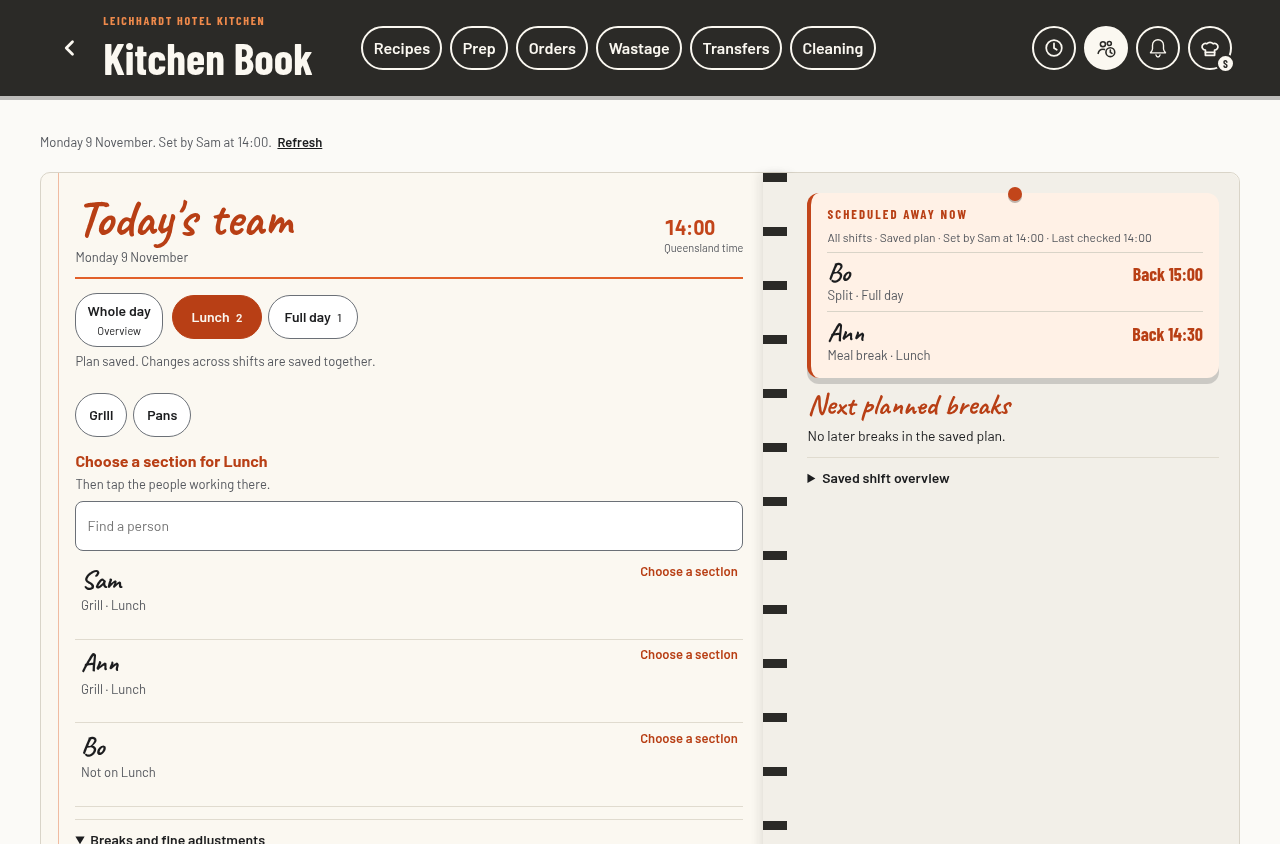
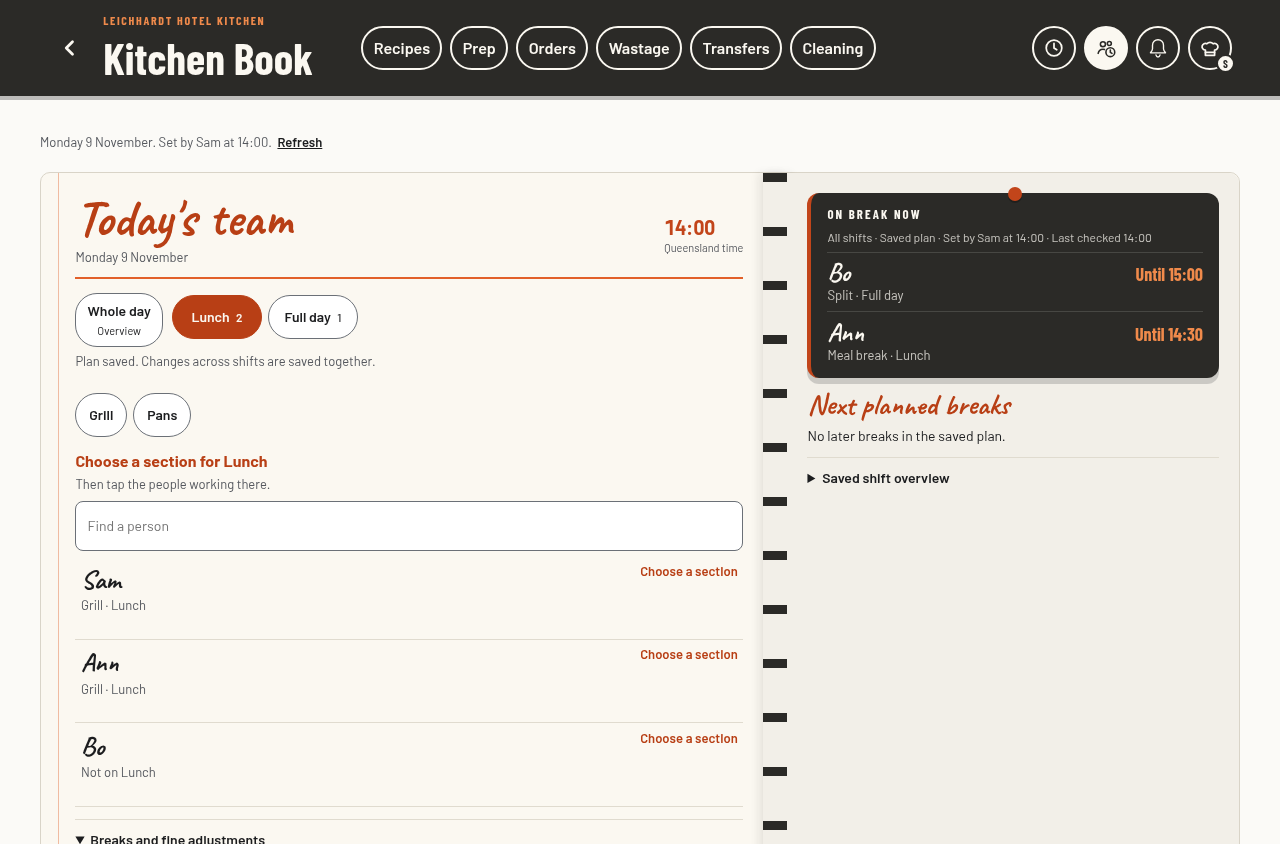
Use a charcoal break board and show Lunch tabs before Dinner

Changed region(s): [[0.625, 0.2156, 0.9688, 0.4621]]

diff --git a/tests/team-shift-tabs.test.js b/tests/team-shift-tabs.test.js
@@ -1,0 +1,61 @@
+// Shift-tab display order must not change the configured defaults or the shared day draft.
+const L = require('./lib');
+const { R, ok } = L.results();
+const key = p => ['kitchens', L.PIN].concat(p).join('/');
+const day = L.ymd(new Date(L.NOW)), CFG = key(['config', 'main']), TEAM = key(['team', day]);
+const shifts = [
+  { id: 'dinner', name: 'DINNER service', from: 960, to: 1320 },
+  { id: 'smoker', name: 'Smoker', from: 600, to: 1320 },
+  { id: 'lunch', name: 'lUnCh service', from: 600, to: 900 },
+  { id: 'prep', name: 'Late prep', from: 720, to: 1000 }
+];
+const config = {
+  people: [
+    { id: 'sam', name: 'Sam', role: 'sous', add: true, tick: true, active: true },
+    { id: 'ann', name: 'Ann', role: 'staff', add: true, tick: true, active: true }
+  ],
+  sousIds: ['sam'], staffIds: ['sam', 'ann'], kitShifts: shifts,
+  kitSecs: [{ id: 'grill', name: 'Grill' }, { id: 'pans', name: 'Pans' }]
+};
+const plan = { day, on: [{ id: 'ann', sh: 'dinner', sec: 'pans' }, { id: 'ann', sh: 'lunch', sec: 'grill' }],
+  br: [{ id: 'ann', sh: 'lunch', at: 840, len: 30 }], v: 1, at: L.NOW, upd: L.NOW, by: 'sam' };
+const press = async (p, selector) => { await L.tap(p, selector); await L.settle(p, 150); };
+const state = p => p.evaluate(([configKey, teamKey]) => ({
+  reads: window.__fake.reads.filter(k => /\/(team|teamsum|config)\//.test(k)).length,
+  writes: window.__fake.writes.length,
+  shifts: window.__fake.dump()[configKey].kitShifts,
+  team: window.__fake.dump()[teamKey]
+}), [CFG, TEAM]);
+
+(async () => {
+  const browser = await L.start();
+  const p = await L.open(browser, '#/team', { who: 'sam', extra: { [CFG]: config, [TEAM]: plan }, wait: 1200 });
+  await L.waitFor(p, () => document.querySelectorAll('.tm-tabs [data-p="tm-sh"]').length === 4, null, 6000);
+  const before = await state(p);
+  ok(await p.$eval('.tm-tabs [aria-pressed="true"]', e => e.dataset.v) === 'dinner', 'tab display: the configured Dinner default remains selected even though Lunch is displayed first');
+
+  for (const width of [390, 768, 1280]) {
+    await p.setViewportSize({ width, height: 844 }); await L.settle(p, 150);
+    const order = await p.$$eval('.tm-tabs [data-p="tm-sh"]', all => all.map(e => e.dataset.v));
+    ok(JSON.stringify(order) === JSON.stringify(['lunch', 'dinner', 'smoker', 'prep']), width + ': Lunch and Dinner prefixes sort first regardless of case; other shifts retain configured order');
+    ok(!(await L.overflow(p)), width + ': reordered shift tabs do not cause sideways page scroll');
+  }
+
+  await press(p, '[data-p="tm-section"][data-v="grill"]');
+  await press(p, '[data-p="tm-assign"][data-id="ann"]');
+  await press(p, '.tm-tabs [data-v="lunch"]');
+  await press(p, '[data-p="tm-section"][data-v="pans"]');
+  await press(p, '[data-p="tm-assign"][data-id="ann"]');
+  await press(p, '.tm-tabs [data-v="dinner"]');
+  ok(await p.$eval('.tm-tabs [aria-pressed="true"]', e => e.dataset.v) === 'dinner' && /Grill/.test(await L.txt(p, '[data-p="tm-assign"][data-id="ann"] .tm-person-detail') || ''), 'tab switching: Dinner stays selected with its own unsaved Grill assignment');
+  await press(p, '.tm-tabs [data-v="lunch"]');
+  ok(/Pans/.test(await L.txt(p, '[data-p="tm-assign"][data-id="ann"] .tm-person-detail') || ''), 'shared draft: Lunch retains its separate unsaved Pans assignment');
+  const after = await state(p);
+  ok(JSON.stringify(after.shifts) === JSON.stringify(shifts), 'display order: the saved shift configuration remains unchanged');
+  ok(JSON.stringify(after.team) === JSON.stringify(before.team) && after.writes === before.writes, 'draft switching: the saved day and write count remain unchanged until Save');
+  ok(after.reads === before.reads, 'tab switching and resizing: the existing loaded plan is reused without reads');
+  ok(await p.$$eval('[data-p="tm-save"]', all => all.length) === 1 && await p.$eval('[data-p="tm-save"]', e => !e.disabled), 'shared draft: one enabled Save covers both shift edits');
+  ok(p.errors.length === 0, 'shift-tab display: no browser errors ' + p.errors.join(' | '));
+  await p.context().close(); await browser.close();
+  L.report(R);
+})().catch(e => { console.log(R.join('\n')); console.error(e); process.exit(1); });

diff --git a/js/prep.js b/js/prep.js
@@ -12514,6 +12514,9 @@
     if (selected) { var a = strip.getBoundingClientRect(), b = selected.getBoundingClientRect(); if (b.right > a.right) strip.scrollLeft += b.right - a.right + 8; else if (b.left < a.left) strip.scrollLeft -= a.left - b.left + 8; }
   }
   function tmTabsHTML(shs, ps) {
+    // Display Lunch, then Dinner, without changing configured shift order or the current draft/selection.
+    var rank = function (s) { return /^lunch\b/i.test(s.name) ? 0 : /^dinner\b/i.test(s.name) ? 1 : 2; };
+    shs = shs.slice().sort(function (a, b) { return rank(a) - rank(b); });
     return '<div class="tm-viewbar" role="group" aria-label="Team views"><button type="button" class="chip tm-whole" data-p="tm-whole" aria-pressed="' + tmWhole + '"' + (svOf('t') === 'busy' ? ' disabled' : '') + '>Whole day<small>Overview</small></button>' +
       '<div class="tm-shift-scroll scroll"><div class="tm-tabs" role="group" aria-label="Shift" data-adaptive="keep">' + shs.map(function (x) {
         var n = ps.filter(function (p) { return tmOnShift(p.id, x.id); }).length;
@@ -12588,7 +12591,7 @@
       '<div class="tm-nbook"><div class="tm-nleft"><header class="tm-nhead"><div><h2 class="p-h" id="rtitle" tabindex="-1">Today\'s team</h2><p>' + esc(date) + '</p></div><div><b class="tm-nclock">' + esc(T.clock(now())) + '</b><small>Queensland time</small></div></header>' +
       '<div class="tm-work">' + use + tmTabsHTML(shs, ps) + '<p class="tm-draftstate" role="status">' + (dirty ? 'Draft, not saved. One Save covers the whole day.' : tm.st === 'err' ? 'Could not check the saved plan. Changes are kept until Save.' : tm.rec ? 'Plan saved. Changes across shifts are saved together.' : 'No team saved yet. Choose shifts, assign people, then Save.') + '</p>' +
       '<div class="tm-editor">' + editor + '</div>' + save + '</div></div><div class="tm-nspine" aria-hidden="true"></div><div class="tm-nright">' +
-      '<aside class="tm-away hm-board" aria-label="Scheduled away"><div class="tm-away-slot">' + tmAwayHTML() + '</div></aside>' +
+      '<aside class="tm-away hm-board" aria-label="On break now"><div class="tm-away-slot">' + tmAwayHTML() + '</div></aside>' +
       '<aside class="tm-extra"><div class="tm-next-slot">' + tmNextHTML() + '</div>' +
       (glance ? '<details class="tm-saved-overview"><summary>' + (tm.st === 'err' ? 'Last saved shift overview' : 'Saved shift overview') + '</summary>' + glance + '</details>' : '') + '</aside></div></div></section>';
   }
@@ -12974,13 +12977,13 @@
     return 'Today\'s saved plan has not been checked. Current scheduled status is unknown.';
   }
   function tmAwayHTML() {
-    var d = tmAwayData(), head = '<h3 class="tm-away-title">Scheduled away now</h3>' + tmAwaySource(d);
+    var d = tmAwayData(), head = '<h3 class="tm-away-title">On break now</h3>' + tmAwaySource(d);
     if (d.state !== 'ready') return head + '<p class="' + (d.state === 'unset' || d.state === 'loading' || d.state === 'clock' ? 'tm-away-empty' : 'tm-away-warn') + '">' + esc(tmAwayState(d)) + '</p>';
     var rows = d.away.map(function (g) {
       var b = g.breaks[0];
       return '<div class="tm-away-row' + (g.conflict ? ' is-conflict' : '') + '"><span class="tm-away-name">' + esc(g.p.name) + '</span><span class="tm-away-kind">' +
         esc(g.conflict ? 'Check break times' : (tmIsSplit(b.len) ? 'Split' : 'Meal break') + ' · ' + b.shifts.join(', ')) + '</span><span class="tm-away-back' + (g.conflict ? ' tm-away-warn' : '') + '">' +
-        esc(g.conflict ? tmAwayRanges(g) : 'Back ' + tmAwayTime(b.end)) + '</span></div>';
+        esc(g.conflict ? tmAwayRanges(g) : 'Until ' + tmAwayTime(b.end)) + '</span></div>';
     }).join('');
     return head + (rows || (d.invalid ? '' : '<p class="tm-away-empty">Nobody scheduled away now.</p>')) +
       (d.invalid ? '<p class="tm-away-warn">Check break times in the saved plan. Some times could not be checked.</p>' : '');

diff --git a/tests/team-notebook.test.js b/tests/team-notebook.test.js
@@ -42,14 +42,14 @@ async function focusAt(p, time) { await p.context().clock.setSystemTime(time); a
   const before = await readCount(p), initialAway = await away(p), initialBreaks = plan().br;
   const current = await rows(p);
   ok(current.length === 2 && current.some(r => r.name === 'Ann' && /14:30/.test(r.text)) && current.some(r => r.name === 'Bo' && /[Ss]plit/.test(r.text) && /15:00/.test(r.text)), 'saved status: a Lunch meal break and a Full day split both show with return times');
-  ok(/Scheduled away now/.test(initialAway) && /All shifts/.test(initialAway) && /Saved plan/.test(initialAway), 'saved status: scheduled wording, all shifts and Saved plan are explicit');
+  ok(/On break now/.test(initialAway) && /Until 14:30/.test(initialAway) && /All shifts/.test(initialAway) && /Saved plan/.test(initialAway), 'saved status: On break now shows Until, all shifts and Saved plan');
   const boardStyle = await p.$eval('.tm-away', e => {
     const s = getComputedStyle(e), pin = getComputedStyle(e, '::before'), probe = document.createElement('span');
-    probe.style.background = 'var(--hit)'; e.appendChild(probe);
-    const warm = getComputedStyle(probe).backgroundColor; probe.remove();
-    return { warm: s.backgroundColor === warm, edge: parseFloat(s.borderInlineStartWidth), radius: parseFloat(s.borderRadius), pin: pin.content !== 'none' && pin.content !== 'normal' };
+    probe.style.background = 'var(--bar)'; document.body.appendChild(probe);
+    const charcoal = getComputedStyle(probe).backgroundColor; probe.remove();
+    return { charcoal: s.backgroundColor === charcoal, edge: parseFloat(s.borderInlineStartWidth), radius: parseFloat(s.borderRadius), pin: pin.content !== 'none' && pin.content !== 'normal' };
   });
-  ok(boardStyle.warm && boardStyle.edge >= 4 && boardStyle.radius >= 12 && boardStyle.pin, 'break board: the saved breaks use Home\'s pinned warm board with its orange edge');
+  ok(boardStyle.charcoal && boardStyle.edge >= 4 && boardStyle.radius >= 12 && boardStyle.pin, 'break board: the saved breaks use Home\'s pinned charcoal board with its orange edge');
   ok(await p.$$eval('.tm-next-row', all => all.length) > 0 && await p.$$eval('.tm-next-row', all => all.length) <= 3, 'next breaks: a compact list uses the loaded saved schedule');
   await section(p, 'grill');
   ok(/Move to Grill/.test(await txt(p, '[data-p="tm-assign"][data-id="sam"]') || ''), 'assignment: Sam on another section gets an explicit Move to Grill action');

diff --git a/css/app.css b/css/app.css
@@ -4472,19 +4472,18 @@ body:has(.dr-notebook .dr-form) .ux-picker-option[aria-selected="true"] { backgr
 .tm-notebook .tm-tick { border-color: var(--faint); }
 .tm-notebook .tm-tick[aria-pressed="true"] { background: var(--done-ink); border-color: var(--done-ink); color: var(--paper); }
 .tm-notebook .tm-away-row { background: var(--hit); }
-/* Today's saved breaks use Home's pinned warm work board. */
+/* Today's saved breaks stand out on Home's pinned charcoal board. */
 .tm-notebook .tm-away.hm-board {
-  --bar: var(--hit);
-  --bar-text: var(--ink);
-  --bar-accent: var(--small-ink);
   padding: .9rem 1rem .4rem;
   border: 0;
   border-inline-start: 4px solid var(--accent-ink);
 }
-.tm-notebook .tm-away.hm-board .tm-away-title { font: 700 .8rem/1.2 var(--display); letter-spacing: .16em; text-transform: uppercase; }
+.tm-notebook .tm-away.hm-board .tm-away-title { color: var(--bar-text); font: 700 .8rem/1.2 var(--display); letter-spacing: .16em; text-transform: uppercase; }
 .tm-notebook .tm-away.hm-board .tm-away-source { margin-top: .4rem; }
-.tm-notebook .tm-away.hm-board .tm-away-row { padding-block: .45rem; border-top-color: var(--edge); background: none; }
-.tm-notebook .tm-away.hm-board .tm-away-back { font: 700 1.125rem/1.2 var(--display); }
+.tm-notebook .tm-away.hm-board .tm-away-source, .tm-notebook .tm-away.hm-board .tm-away-kind { color: color-mix(in srgb, var(--bar-text) 75%, transparent); }
+.tm-notebook .tm-away.hm-board .tm-away-row { padding-block: .45rem; border-top-color: color-mix(in srgb, var(--bar-text) 14%, transparent); background: none; }
+.tm-notebook .tm-away.hm-board .tm-away-back { color: var(--bar-accent); font: 700 1.125rem/1.2 var(--display); }
+.tm-notebook .tm-away.hm-board .tm-away-warn { color: var(--bar-accent); }
 .tm-notebook .tm-away.hm-board .tm-away-row.is-conflict .tm-away-back { font: 600 .875rem/1.35 var(--body); }
 /* Manage staff (Linear lists): a row each with the initial, the name, and the role with what they may do */
 .st-row { flex-direction: row !important; align-items: flex-start; gap: 12px !important; }

diff --git a/docs/design-patterns.md b/docs/design-patterns.md
@@ -8,7 +8,7 @@ The rules behind them are in `CLAUDE.md` (Service rules, Coding rules, Things th
 
 ## The look
 
-- **Current break board** (Today's team, 9 November 2026): reuse `.hm-board` on `.tm-away`, with Home's warm amber work surface, orange edge and pin. Keep the notebook position and the saved all-shift names, meal breaks, splits and return times in `.tm-away-slot`. The existing status renderer and clock paints remain authoritative. [Contract and checks](team-notebook-options/brief.md#break-board-9-november-2026).
+- **Current break board** (Today's team, 9 November 2026): reuse `.hm-board` on `.tm-away`, with the existing charcoal surface, light text, orange return times, edge and pin. Label it On break now, with Until beside each return time. Keep the notebook position and the saved all-shift names, meal breaks, splits and return times in `.tm-away-slot`. The existing status renderer and clock paints remain authoritative. [Contract and checks](team-notebook-options/brief.md#break-board-9-november-2026).
 
 - **Colours** are tokens in `:root` in `css/app.css`, never a new hex in a rule: `--ink` (text, rules), `--paper` and `--bg` (surfaces), `--muted` and `--faint` (quiet text), `--line` (dividers), `--accent` and `--accent-ink` (the book's orange), `--tag` (needs attention: a filled chip, a due line), `--done` and `--done-ink` (saved, ticked), `--bar` and `--bar-text` (the dark top bar and tab bar).
 - **A fill is for something that needs attention**, nothing else: the top bar chip until today's team is saved, a filled tag. Groups are made with space and headings first.
@@ -75,7 +75,7 @@ The rules behind them are in `CLAUDE.md` (Service rules, Coding rules, Things th
 - **A drinks notebook to read out** (Drinks run, matching style requested 8 Nov 2026): `.dr-notebook` holds the ruled `.dr-book`, `.dr-bookhead` and `.dr-spine`. From 1100 px the grouped order is the left `.dr-work` page, and `.dr-usual` plus `.dr-people` are on the right. Phones keep Your usual, the order, then people. The order keeps `.dr-run` and its `.dr-oh` count, with handwritten names and typed quantities. `dkRunHTML()` renders the order once and `dkTeamHTML()` the people only. Editing uses the same `dkFormHTML()` on one sheet, retaining its draft and the existing Save/Cancel steps. Use the existing notebook colours and no inner list scroll. [Contract and checks](drinks-notebook.md).
 - **A person row** (Manage staff): their initial in a disc (`.st-av`, dark for chefs), the name, and the role with what they may do in plain words (`.st-can`).
 - **An open notebook** (Chef to-do, B chosen 8 Nov 2026): `.todo-notebook` holds the book heading (`.todo-bookhead`), read status (`.todo-status`) and privacy line (`.todo-privacy`). The ruled paper is `.todo-book`: from 1100 px the jobs and existing `lvHTML()` controls are on the left (`.todo-work`), the single add or change editor with its `.todo-formtitle` on the right, and `.todo-spine` between. Below 1100 px it is one flow with the same editor above the jobs; optional day, chef and Add appear after typing (`.todo-more`), while the laptop editor keeps them visible. CSS changes the layout without a second form or draft: `todoPageHTML()`, `todoFormHTML()` and `todoRow()` reuse `tdf`. View-only supplier reminders sit before the book. Search, filters, sort and row actions keep their existing helpers and behaviour. [Chosen design](chef-todo-options/brief.md).
-- **A roster notebook** (Today's team, refined A chosen 8 Nov 2026, implemented and checked locally): `.tm-notebook` holds the `.tm-nhead` heading and `.tm-nbook` ruled pages. From 1100 px, `.tm-work` is the planner on the left and saved scheduled-away status is on the right, with `.tm-nspine` between; below it is one flow. Reuse one `tmf` draft and one global version-protected Save across every view and resize. The saved panel's `.tm-away-slot` is painted by `tmAwayHTML()`, `tmNextHTML()` and `tmAwayPaint()` from `tm.rec` and the kitchen clock, never the draft. Say Scheduled away now, All shifts and Saved plan; distinguish meal breaks, splits, checked return times and unknown status. Existing clock paths repaint it without extra reads. [Chosen design and build](team-notebook-options/brief.md).
+- **A roster notebook** (Today's team, refined A chosen 8 Nov 2026, implemented and checked locally): `.tm-notebook` holds the `.tm-nhead` heading and `.tm-nbook` ruled pages. From 1100 px, `.tm-work` is the planner on the left and saved scheduled-away status is on the right, with `.tm-nspine` between; below it is one flow. Reuse one `tmf` draft and one global version-protected Save across every view and resize. The saved panel's `.tm-away-slot` is painted by `tmAwayHTML()`, `tmNextHTML()` and `tmAwayPaint()` from `tm.rec` and the kitchen clock, never the draft. Say On break now, All shifts and Saved plan; distinguish meal breaks, splits, checked return times and unknown status. Existing clock paths repaint it without extra reads. [Chosen design and build](team-notebook-options/brief.md).
 - **A long run of rows that are not the point** folds into one line that names them and says Show (`.tm-fold`, with `aria-expanded`), instead of filling the screen.
 - **Nothing new over a list during service** unless it stops a mistake (`CLAUDE.md`, Service rules).
 

diff --git a/docs/team-notebook-options/brief.md b/docs/team-notebook-options/brief.md
@@ -6,15 +6,17 @@ Read first: `CLAUDE.md`, `.claude/skills/service-council/SKILL.md`, `docs/todays
 
 ## Break board, 9 November 2026
 
-The owner requested a board like Home for staff on break now. On 9 November the owner explicitly requested immediate release: Send live now. Reuse Home's current pinned warm amber work board, orange edge and compact heading for the existing Scheduled away now panel. Names and return times stay visible, with meal breaks and splits labelled. Keep the existing notebook placement, all-shift Saved plan source, next breaks and planner controls.
+The owner requested a board like Home for staff on break now. On 9 November the owner explicitly requested immediate release: Send live now. The owner then chose the charcoal board to stand out, with On break now as the heading and Until beside each return time. Reuse Home's pin, orange edge and compact heading for the existing panel, with light text and orange return times. The owner also clarified that only the shift tabs should be reordered: Lunch, then Dinner, followed by other shifts in their configured order. Names and return times stay visible, with meal breaks and splits labelled. Keep the existing notebook placement, all-shift Saved plan source, next breaks and planner controls.
 
 **Verdict: Build smaller (quick check).** This makes existing saved status easier to find without another page, control, step or data source. The owner selected the homepage pattern, so there is no new design choice. This is a session review, not research with staff. Checking scheduled breaks remains zero taps; choosing a section then a person stays two taps, each additional person one, and Save remains separate.
 
-The implementation adds the existing `.hm-board` class and scoped styles only. No break calculation, read, listener, timer, permission, schema or saved data changes. All current freshness, clock, conflict and saved-versus-draft safeguards remain in `tmAwayData()` and its existing paint paths.
+The board uses the existing `.hm-board` class and scoped styles. `tmTabsHTML()` sorts a copy for display only, recognising Lunch and Dinner names regardless of case. Keep the configured order, current selection, drafts and other roster views unchanged. No break calculation, read, listener, timer, permission, schema or saved data changes. All current freshness, clock, conflict and saved-versus-draft safeguards remain in `tmAwayData()` and its existing paint paths.
+
+The tab-only refinement passes 14 focused checks: Lunch/Dinner prefixes regardless of case, stable ordering of custom shifts, unchanged selected shift and saved configuration, separate unsaved assignments across shifts, one Save, unchanged reads and writes, and no overflow at 390, 768 and 1280 px. The charcoal notebook retains all 64 behaviour and appearance checks. Light source labels and orange times/warnings use the existing dark-board tokens.
 
 Local evidence: the new appearance check failed on the original panel, with the other 63 notebook checks passing. All 64 pass with the board, alongside Today's team, Home board, staff-first Home, desktop Home, design patterns and read budgets, seven files in total. The suite covers exact start/return boundaries, saved-versus-draft status, failed reads, overlaps, long names and largest text at 320, 390, 768 and 1280 px. JavaScript parse and whitespace checks pass. Some unrelated live-font top-bar measurements in the existing Today's team test skipped when remote fonts did not load; separate board captures loaded the app's six original font faces through the trusted local cache.
 
-The same synthetic 390 × 844 fixture retains two complete current-break rows and one complete assignment row before and after; the board adds about 3 px to the phone flow. Tablet retains two break rows and one person, desktop two break rows and three people. No sideways overflow or browser errors at 390, 768 or 1280 px. Existing fallback-font captures have the same 12 reads before and after. These are stand-in browser checks, not private production records or actual attendance. [Phone](break-board-390.png), [desktop](break-board-1280.png). CI and release evidence belongs in the pull request. Revert the implementation to restore the plain notebook status panel; stored plans need no change.
+The same synthetic 390 × 844 fixture retains two complete current-break rows and one complete assignment row before and after; the board adds about 3 px to the phone flow. Tablet retains two break rows and one person, desktop two break rows and three people. No sideways overflow or browser errors at 390, 768 or 1280 px. Existing fallback-font captures have the same 12 reads before and after. These are stand-in browser checks, not private production records or actual attendance. [Phone](break-board-390.png), [desktop](break-board-1280.png). The charcoal refinement and shift-tab checks run before the authorised immediate release; CI and deployed-client evidence belongs in the pull request. Revert the implementation to restore the plain notebook status panel; stored plans need no change.
 
 ## Colour refinement, 8 November 2026
 

diff --git a/docs/code-contracts.md b/docs/code-contracts.md
@@ -64,9 +64,9 @@ Chosen 8 Nov 2026, implemented and checked locally, CI and live release pending 
 
 Keep one `tmf` draft across shifts, sections, Whole day, redraws and resizing, and one global Save for it. Section-first `.tm-person-pick` actions add or move a person's section on the selected shift only, retaining their other shifts and all breaks. The selected assignment's explicit Clear section keeps shift membership and breaks. Remove from Lunch uses the separate existing `tm-on` membership action and its existing break-removal behaviour. Selected sections deliberately win over usual-section hints. Whole day `.tm-dayperson` rows review all draft shifts with sections, hours, breaks, split return times and links to the real shift editor; show unsaved draft state. Keep inline multi-break controls, default split logic, usual-section and training hints, Use it, Spread them, off-shift people, saved section overview, conflict recovery and Refresh's discard confirmation.
 
-`tmAwayHTML()`, `tmNextHTML()` and `tmAwayPaint()` use the loaded saved `tm.rec`, never `tmf`, for all-shift Scheduled away now and next-break status in `.tm-away-slot`. Keep Saved plan and the kitchen-clock time visible. Validate day, active membership and times; deduplicate people and flag conflicting overlaps without guessing a return time. Keep meal breaks and long splits distinct. Loading, unset, known nobody scheduled away, unknown, stale and failed reads remain distinct. Repaint from the existing minute, focus and clock-refresh paths without reads or listeners. A successful Save may update saved status; a failed Save must preserve the draft and cannot publish its breaks. No schema, rules, roles, storage, backend service, dependency or read-budget change. Staff Your day, chip, section defaults and session authority retain their existing contracts.
+`tmAwayHTML()`, `tmNextHTML()` and `tmAwayPaint()` use the loaded saved `tm.rec`, never `tmf`, for all-shift On break now and next-break status in `.tm-away-slot`. Keep Saved plan and the kitchen-clock time visible. Validate day, active membership and times; deduplicate people and flag conflicting overlaps without guessing a return time. Keep meal breaks and long splits distinct. Loading, unset, known nobody scheduled away, unknown, stale and failed reads remain distinct. Repaint from the existing minute, focus and clock-refresh paths without reads or listeners. A successful Save may update saved status; a failed Save must preserve the draft and cannot publish its breaks. No schema, rules, roles, storage, backend service, dependency or read-budget change. Staff Your day, chip, section defaults and session authority retain their existing contracts.
 
-Today's team break-board refinement (9 November 2026) reuses `.hm-board` on `.tm-away` with Home's warm work-board colours, pin and orange edge. This is presentation only; the saved-plan status, notebook position and clock/data contracts above remain unchanged. [Checks](team-notebook-options/brief.md#break-board-9-november-2026).
+Today's team break-board refinement (9 November 2026) reuses `.hm-board` on `.tm-away` with the charcoal board colours, light text, pin and orange edge. Use On break now and Until for return times. `tmTabsHTML()` sorts a copy for display only: Lunch, Dinner, then other shifts in their configured order. Keep the underlying shift order, current selection and single draft unchanged. This is presentation only; the saved-plan status, notebook position and clock/data contracts above remain unchanged. [Checks](team-notebook-options/brief.md#break-board-9-november-2026).
 
 ## Admin nav
 

diff --git a/docs/head-chef-decisions.md b/docs/head-chef-decisions.md
@@ -1,6 +1,6 @@
 # Head chef decisions
 
-- **9 November 2026, a break board on Today's team.** The owner requested a board like the homepage for staff on break now. Give the existing all-shift Scheduled away now panel Home's pinned warm amber work-board treatment, retaining names, return times, split labels and saved-plan authority. [Contract and checks](team-notebook-options/brief.md#break-board-9-november-2026).
+- **9 November 2026, a break board on Today's team.** The owner requested a board like the homepage for staff on break now. After requesting Home's board pattern, the owner chose charcoal with the heading On break now and Until beside each return time. Retain names, split labels and saved-plan authority. The owner also clarified that only the shift tabs should show Lunch first, then Dinner; keep other configured shifts in their saved order. [Contract and checks](team-notebook-options/brief.md#break-board-9-november-2026).
 
 - **9 November 2026, each supplier product's last order.** The head chef asked to show when an item was last ordered and how much was ordered then. Show the recorded quantity and Queensland date in the existing Last order column, reusing saved order snapshots. Keep earlier-history coverage explicit and leave quantities as an empty draft until entered. [Contract and quick check](supplier-workspace.md#each-items-last-order-9-november-2026).
 

diff --git a/README.md b/README.md
@@ -4,7 +4,7 @@
 
 # Leichhardt Kitchen Book
 
-Today's team shows current scheduled meal breaks and splits on a warm pinned board like Home, with names and return times. It follows the saved plan across all shifts and updates with the existing kitchen clock. [Break board](docs/team-notebook-options/brief.md#break-board-9-november-2026).
+Today's team shows current scheduled meal breaks and splits on a pinned charcoal board. On break now lists each name with Until and the return time. Shift tabs show Lunch first, then Dinner, followed by the other configured shifts. It follows the saved plan across all shifts and updates with the existing kitchen clock. [Break board](docs/team-notebook-options/brief.md#break-board-9-november-2026).
 
 Supplier order shows each item's **last ordered quantity and date** in the existing Last order column. It checks recent saved orders and keeps an item's own last purchase when the latest supplier order omitted it. Older orders extends the check through Order history; unchecked earlier history is labelled clearly. [Behaviour and read costs](docs/supplier-workspace.md#each-items-last-order-9-november-2026).
 
